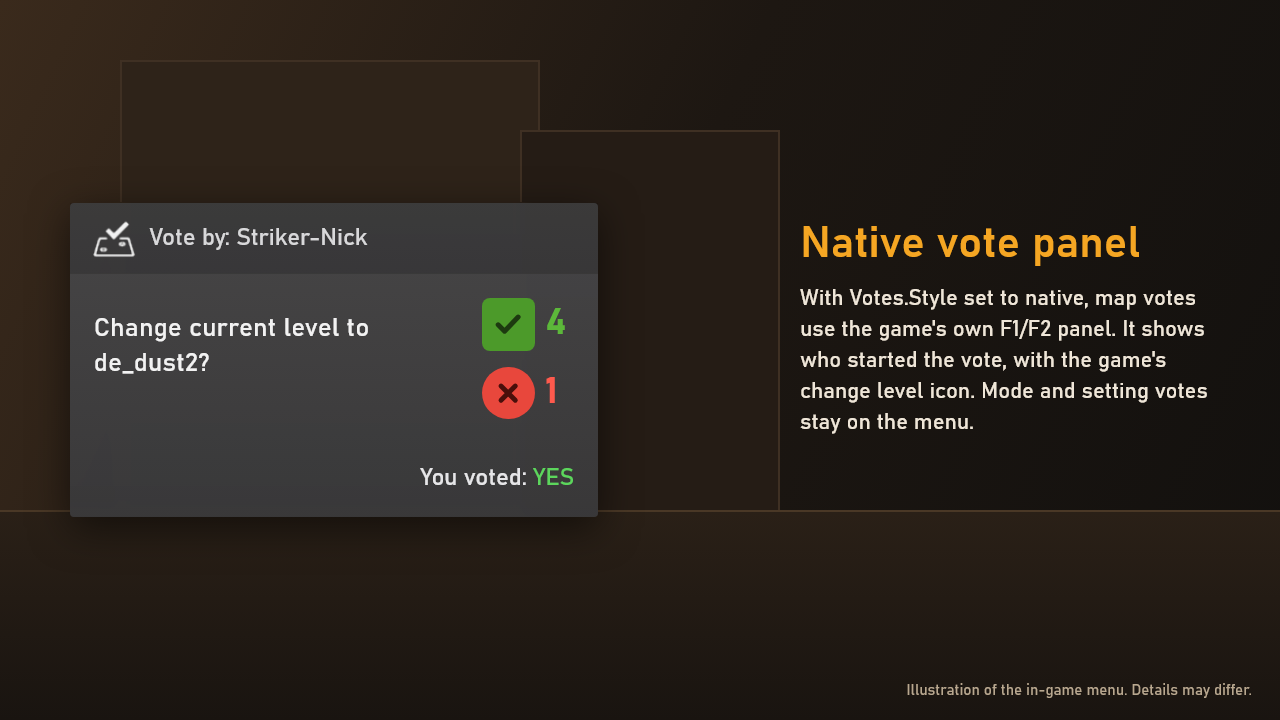
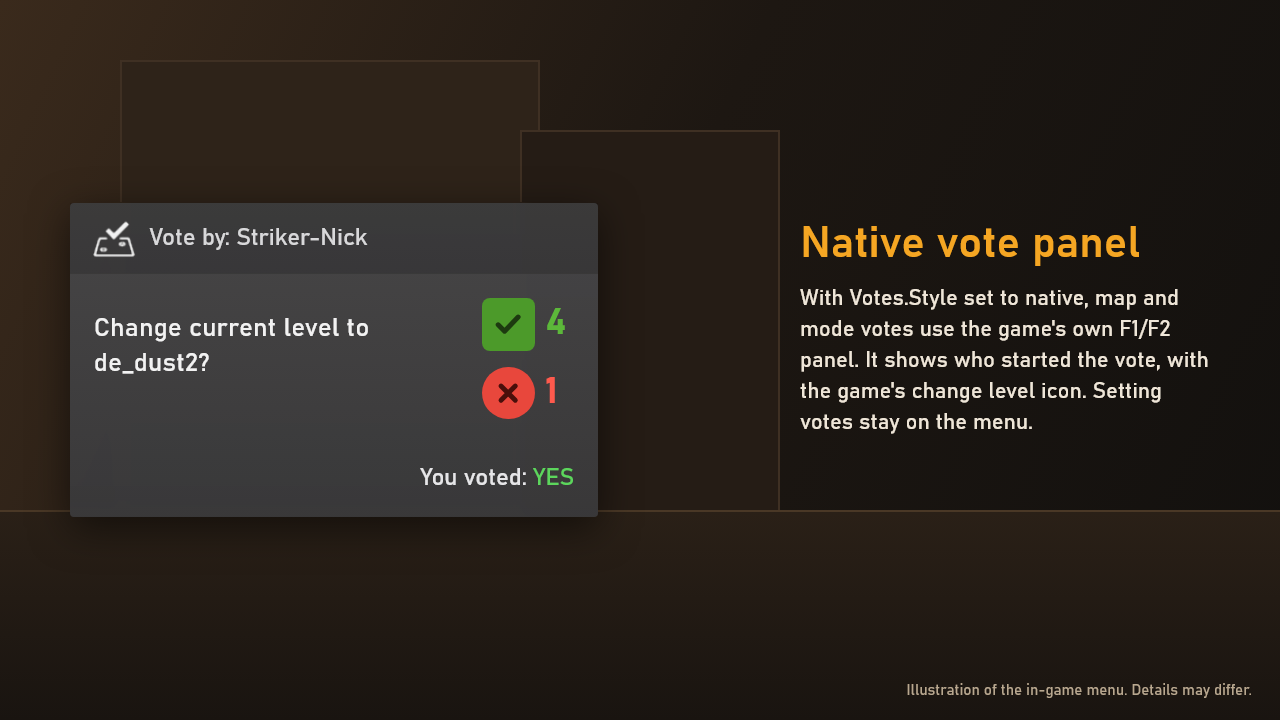
fix: map and mode votes on the game's vote panel, setting votes with their own question (#92)

Changed region(s): [[0.625, 0.3972, 0.9375, 0.6111]]

diff --git a/addon/mockups/scenes.html b/addon/mockups/scenes.html
@@ -112,7 +112,7 @@ admin:{h:'Admin panel',p:'CS2-SimpleAdmin on its own panel, in red so admin tool
   '<div class="rw"><span>RTV / Nominate</span><div class="pill on">ON</div></div>'+
   '<div class="rw"><span>Rotate when empty</span><div class="pill off">OFF</div></div>'+
   '</div><div class="bot"><span>Back<span class="nx">Next</span></span><span>Close</span></div></div>'}
-,native:{h:'Native vote panel',p:'With Votes.Style set to native, map votes use the game\'s own F1/F2 panel. It shows who started the vote, with the game\'s change level icon. Mode and setting votes stay on the menu.',
+,native:{h:'Native vote panel',p:'With Votes.Style set to native, map and mode votes use the game\'s own F1/F2 panel. It shows who started the vote, with the game\'s change level icon. Setting votes stay on the menu.',
[1 lines of base64/hex data omitted]
 };
 // A notification for each scene, the way PMM shows one beside the menu

diff --git a/src/GameModeManager/Core/VoteService.cs b/src/GameModeManager/Core/VoteService.cs
@@ -18,8 +18,8 @@ namespace GameModeManager.Core
     // Player yes/no votes (change map, change mode, enable/disable a setting). Replaces CS2-CustomVotes.
     // One vote at a time. Shown as a PanoramaMenu menu ("menu") or the game's F1/F2 vote panel ("native"). The panel's only
     // title that needs no file on players' PCs is "Change current level to X?", so a vote passes X to use it. A vote that
-    // passes nothing, like a free question, uses the menu. Votes.NativeTitleToken shows every vote's own title on the panel
-    // instead, but players without the file that defines the token may not see the panel.
+    // passes nothing, like a setting, uses the menu, unless Votes.NativeTitleToken is set: then it shows its own title on the
+    // panel, which players without the file that defines the token don't see at all. Maps and modes always keep the game's text.
     // A vote with its own answers always uses the menu, because the panel only has yes and no. It only reports the result.
     public class VoteService : IPluginDependency<Plugin, Config>
     {
@@ -47,7 +47,6 @@ namespace GameModeManager.Core
         // Define class properties
         private ActiveVote? _vote;
         private readonly Dictionary<ulong, DateTime> _lastStarted = new();
-        public bool InProgress => _vote != null;
 
         private class ActiveVote
         {
@@ -103,19 +102,22 @@ namespace GameModeManager.Core
 
         // Starts a yes/no vote. title is already localized (chat colours allowed). Returns false and tells the caller why
         // when the vote can't start.
-        public bool StartYesNo(CCSPlayerController caller, string title, Action onPassed, string? nativeSubject = null)
+        public bool StartYesNo(CCSPlayerController caller, string title, Action onPassed, string? nativeSubject = null, bool allowNative = true)
         {
-            return StartYesNo(caller, () => title, onPassed, nativeSubject);
+            return StartYesNo(caller, () => title, onPassed, nativeSubject, allowNative);
         }
 
         // The same, with a title localized for each voter's menu. Chat and the native panel use the server's language.
-        public bool StartYesNo(CCSPlayerController caller, Func<string> localizedTitle, Action onPassed, string? nativeSubject = null)
+        // allowNative false keeps the vote on the menu whatever the style.
+        public bool StartYesNo(CCSPlayerController caller, Func<string> localizedTitle, Action onPassed, string? nativeSubject = null, bool allowNative = true)
         {
             if (!CanStart(caller, out var voters))
                 return false;
 
             string title = localizedTitle();
-            string? titleToken = string.IsNullOrWhiteSpace(_config.Votes.NativeTitleToken) ? null : _config.Votes.NativeTitleToken;
+            // Maps and modes keep the game's own "Change current level to X?", which every player has. Only a vote without
+            // one, like a setting, uses the custom text, which needs the file on players' PCs.
+            string? titleToken = !allowNative || nativeSubject != null || string.IsNullOrWhiteSpace(_config.Votes.NativeTitleToken) ? null : _config.Votes.NativeTitleToken;
             var vote = new ActiveVote
             {
                 Title = title,

diff --git a/src/GameModeManager/CrossCutting/Extensions.cs b/src/GameModeManager/CrossCutting/Extensions.cs
@@ -1,11 +1,9 @@
 // Included libraries
 using CounterStrikeSharp.API;
 using CounterStrikeSharp.API.Core;
-using CounterStrikeSharp.API.Modules.Admin;
 using CounterStrikeSharp.API.Modules.Utils;
 using CounterStrikeSharp.API.Modules.Cvars;
 using CounterStrikeSharp.API.Modules.Memory;
-using CounterStrikeSharp.API.Modules.Entities;
 
 // Declare namespace
 namespace GameModeManager.CrossCutting
@@ -40,12 +38,6 @@ namespace GameModeManager.CrossCutting
                 .Select(pawn => pawn!);
         }
 
-        public static void PrintCenterTextAll(string text)
-        {
-            foreach (var player in ValidPlayers(false))
-                player.PrintToCenter(text);
-        }
-
         public static int ValidPlayerCount(bool considerBots = false)
         {
             return ValidPlayers(considerBots).Length;
@@ -74,35 +66,10 @@ namespace GameModeManager.CrossCutting
                 .ToArray();
         }
 
-        public static bool CanTarget(this CCSPlayerController? controller, CCSPlayerController? target)
-        {
-            if (controller is null || target is null) return true;
-            if (target.IsBot) return true;
-
-            return AdminManager.CanPlayerTarget(controller, target) ||
-                                    AdminManager.CanPlayerTarget(new SteamID(controller.SteamID),
-                                        new SteamID(target.SteamID));
-        } 
-
         public static bool ReallyValid(this CCSPlayerController? player, bool considerBots = false)
         {
             return player is not null && player.IsValid && player.Connected == PlayerConnectedState.Connected &&
                 (considerBots || (!player.IsBot && !player.IsHLTV));
-        }
-
-        public static string GetTeamString(this CCSPlayerController? player, bool abbreviate = false)
-        {
-            var teamNum = player != null ? (int)player.Team : -1;
-            var teamStr = teamNum switch
-            {
-                (int)CsTeam.None => "team.none",
-                (int)CsTeam.CounterTerrorist => "team.ct",
-                (int)CsTeam.Terrorist => "team.t",
-                (int)CsTeam.Spectator => "team.spec",
-                _ => ""
-            };
-
-            return abbreviate ? teamStr + ".short" : teamStr + ".long";
         }
     }
         

diff --git a/src/GameModeManager/Config.cs b/src/GameModeManager/Config.cs
@@ -74,7 +74,8 @@ namespace GameModeManager
         public int Cooldown { get; set; } = 60; // Seconds before the same player can start another vote
         public bool AllowSpectators { get; set; } = false; // Spectators can vote (and count towards the percentage)
         public bool AllowInWarmup { get; set; } = false; // Allows votes during warmup
-        public string NativeTitleToken { get; set; } = ""; // Native panel title from platform_english.txt on the server and every player's PC. Empty = the game's "Change current level to X?"
+        public string NativeTitleToken { get; set; } = ""; // Native panel title for setting votes, from platform_english.txt on every player's PC. Empty = setting votes use the menu. Maps and modes always use "Change current level to X?"
+        public bool NativeQuestions { get; set; } = false; // !vote questions on the F1/F2 panel too (needs NativeTitleToken). false = the menu
     }
 
     // Define game settings

diff --git a/src/GameModeManager/Menus/ModeMenus.cs b/src/GameModeManager/Menus/ModeMenus.cs
@@ -177,7 +177,7 @@ namespace GameModeManager.Menus
                 PlayerFeedback.Send(player, _localizer, "notify.mode", MenuNotice.Warning, "general.validation.current");
                 return;
             }
-            _voteService.StartYesNo(player, () => _localizer.Localize("mode.vote.menu-title", mode.Name), () => _serverManager.ChangeMode(mode));   // The menu vote: the game's panel can only say "Change current level to"
+            _voteService.StartYesNo(player, () => _localizer.Localize("mode.vote.menu-title", mode.Name), () => _serverManager.ChangeMode(mode), mode.Name);   // The game's panel: "Change current level to <mode>?" fits a mode change
         }
 
         // A vote on GG1's panel between random other modes

diff --git a/src/GameModeManager/Features/QuestionVote.cs b/src/GameModeManager/Features/QuestionVote.cs
@@ -72,7 +72,7 @@ namespace GameModeManager.Features
                 if (arguments.Count > MaxYesNoArguments)
                     _voteService.StartChoice(player, arguments[0], arguments.Skip(1).Distinct(StringComparer.OrdinalIgnoreCase).ToList());
                 else
-                    _voteService.StartYesNo(player, string.Join(' ', arguments), () => { });
+                    _voteService.StartYesNo(player, string.Join(' ', arguments), () => { }, allowNative: _config.Votes.NativeQuestions);
             });
             return HookResult.Handled;
         }

diff --git a/docs/wiki/Configuration.md b/docs/wiki/Configuration.md
@@ -22,7 +22,8 @@
     "Cooldown": 60,
     "AllowSpectators": false,
     "AllowInWarmup": false,
-    "NativeTitleToken": ""
+    "NativeTitleToken": "",
+    "NativeQuestions": false
   },
   "MapChooser": {
     "GeneratePools": true,
@@ -442,14 +443,22 @@ These settings are for player votes (`!changemap`, `!changemode`, `!changesettin
 | Enabled             | Enables player votes.                                                                                                                     |
 | GameModes           | Enables game mode votes.                                                                                                                  |
 | GameSettings        | Enables game setting votes.                                                                                                               |
-| Style               | `menu` = PanoramaMenu Yes/No menu, `native` = the game's F1/F2 vote panel for map votes (its only text is "Change current level to …?"). Mode and setting votes use the menu, unless NativeTitleToken is set. |
+| Style               | `menu` = PanoramaMenu Yes/No menu, `native` = the game's F1/F2 vote panel for map and mode votes (it only shows its own texts, so it asks "Change current level to …?"). Setting votes use the menu, unless NativeTitleToken is set. |
 | Percentage          | Percent of eligible players that must vote yes.                                                                                           |
 | Duration            | Vote duration in seconds.                                                                                                                 |
 | MinPlayers          | Minimum eligible players to start a vote.                                                                                                 |
 | Cooldown            | Seconds before the same player can start another vote.                                                                                    |
 | AllowSpectators     | Lets spectators vote, and counts them towards the percentage.                                                                             |
 | AllowInWarmup       | Allows votes during warmup.                                                                                                               |
-| NativeTitleToken    | Native panel title from `platform_english.txt` on the server and every player's PC. Empty = the game's "Change current level to X?".      |
+| NativeTitleToken    | Puts setting votes on the F1/F2 panel with their own question: set it to `#SFUI_vote_panorama_vote_default`. Empty = setting votes use the menu. Map and mode votes always use the game's own "Change current level to X?", so they work for every player. Needs the file below on every player's PC. |
+| NativeQuestions     | `true` puts `!vote` questions on the F1/F2 panel too, when NativeTitleToken is set. `false` (default) keeps them on the menu.            |
+
+**Custom vote panel text needs a file on every player's PC.** The game looks the panel's text up on each player's computer, not on the server, and it opens no panel at all for a text it doesn't know. With `NativeTitleToken` set:
+
+1. Every player copies `csgo/resource/platform_english.txt` from the GameModeManager release (the same file GG1MapChooser ships in `Resources/`) to `Steam\steamapps\common\Counter-Strike Global Offensive\game\csgo\resource\` on their PC. If a `platform_english.txt` is already there, add the `SFUI_vote_panorama_vote_*` lines to it.
+2. They restart CS2. The game reads the file only at startup.
+
+A player without the file sees no panel for setting votes or questions and can't vote on them (map and mode votes still show), and Steam's "Verify integrity of game files" can remove it. The menu addon (`tools/build-menu-addon.ps1`) also carries the file, but the game may read it only at startup, before the addon loads, so don't count on that. Keep `NativeTitleToken` empty on public servers.
 
 # Admin Panel Settings
 | Setting             | Description                                                                                                                               |

diff --git a/README.md b/README.md
@@ -70,7 +70,7 @@ Players choose what to play next with [GG1MapChooser](https://github.com/ssypche
 
 Admins can start a random vote or a yes/no vote from **Start vote** in `!maps`, `!modes` and the admin menu.
 
-With `Votes.Style` set to `"native"`, map votes like `!changemap de_dust2` use the game's own F1/F2 vote panel instead of a menu. It shows who started the vote. Mode and setting votes stay on the menu, because the game's panel can only ask "Change current level to …?".
+With `Votes.Style` set to `"native"`, map and mode votes like `!changemap de_dust2` use the game's own F1/F2 vote panel instead of a menu. It shows who started the vote. Setting votes stay on the menu, because the game's panel can only ask "Change current level to …?".
 
 ![Yes/no vote on the game's F1/F2 panel](docs/images/vote-native.png)
 
@@ -87,7 +87,7 @@ GG1MapChooser is **required** since 2.0.0: it picks the maps, and GameModeManage
 - **Mode rotation:** with `Rotation.ModeRotation`, the mode changes every `ModeInterval` maps. On the map where it changes, `ModeVote: "random"` skips the map vote and picks a random mode, and `"vote"` makes every vote on that map, `!rtv` included, a vote on modes only. `CountSkippedMaps` decides whether maps left early count. Players are told at the start of that map's match.
 - **Keep these GG1 settings:** the included config turns off `ChangeMapAfterWinDraw`, `ChangeMapAfterTimeLimit`, `RandomMapOnStart` and `LastDisconnectedChangeMap` so only GameModeManager changes the map, and uses the `wasd` menus the bridge needs.
 - **GG1 updates:** GG1 isn't modified. A few features read its internals and log a warning or do nothing if an update changes them.
-- **Vote panel text:** `Votes.NativeTitleToken` shows each vote's own title on the game's F1/F2 vote panel, but needs `platform_english.txt` on the server and every player's PC.
+- **Vote panel text:** map and mode votes use the game's own "Change current level to …?" on the F1/F2 vote panel, which works for every player. Setting votes use the menu, unless you set `Votes.NativeTitleToken` to `#SFUI_vote_panorama_vote_default`: then they show their own question on the panel, like "Enable Alltalk?", and so do `!vote` questions with `Votes.NativeQuestions`. The text comes from each player's own `platform_english.txt` (in `Counter-Strike Global Offensive\game\csgo\resource`), so every player must copy the one in the release's `csgo/resource` there. A player without it sees no panel for those votes and can't vote on them, so only use this on servers where every player has the file. See [Vote Settings](docs/wiki/Configuration.md#vote-settings).
 - **Changing to any map by name:** use an admin plugin like [CS2-SimpleAdmin](https://github.com/daffyyyy/CS2-SimpleAdmin)'s `!map`, or GG1's `ggmap`.
 
 </details>
